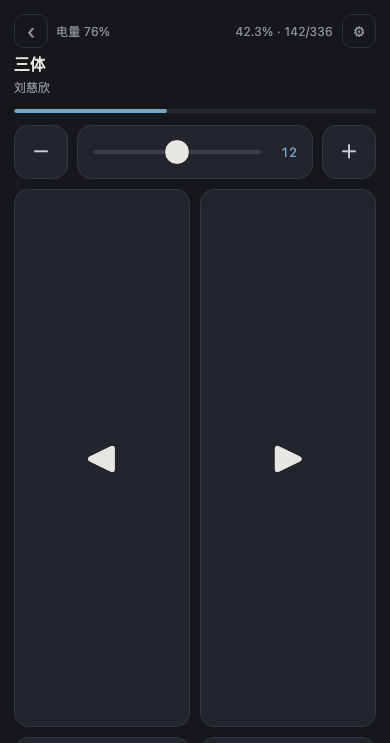
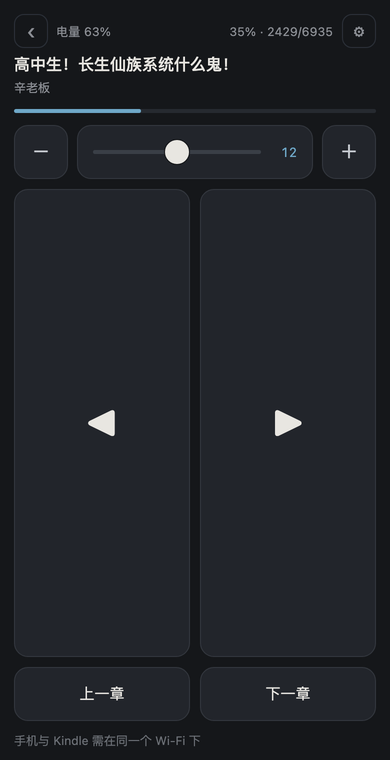
fix: 适配真机（书库路径、封面质量、重启、界面切换断线）
在真机上跑通后修的一批问题：

- 书库扫不到书：DataDir 是 /mnt/us/koreader，兜底路径拼出的
  /mnt/us/koreader/documents 并不存在，而书在 /mnt/us/documents。
  getHomeDir 改成按候选列表逐个探测（home_dir 设置 → DataDir/documents
  → 上级目录/documents → /mnt/us/documents）
- 封面糊成一片：CoverBrowser 缓存里不少封面只有 47x62（取决于它的显示
  模式）。现在缓存封面宽 < 150px 且原始尺寸够大时，现场开文档抽原图
  （实测 250~376 宽），落盘缓存；缓存文件名加 v2- 前缀，旧的低质量
  缓存第一次进目录时清掉
- 书架混进系统文件：过滤 My Clippings / JAILBROKEN / spidercat / index
  这类名字、小于 8KB 的文件，以及 kpomo、extensions 目录
- 书名带 Kindle 下载的 32 位哈希后缀，显示前剥掉（_<16 位以上十六进制>）
- 重启菜单项原来用"退出 + kpm launch --asap"外部拉起，在真机上拉不起来
  （reader.lua 一退，koreader.sh 就结束、框架恢复，再拉等于跑在框架下）。
  改回 restartKOReader()：本机 koreader.sh 有 while eq 85 的循环，
  真机验证过能原地重启
- 从书里退回书架时，FileManager 会销毁重建、两份界面短暂都不在，
  原来的 onCloseWidget 会立刻停服务，导致手机端断两三秒。
  改成延后 4 秒再停，期间有新界面登记就取消；前端也不再单次失败就报断线，
  连续 3 次才提示
- 书架书名改成固定两行高，一行/两行混排时进度行不再错位
- docs 截图换成真机 390x760 渲染的图

diff --git a/panel.html b/panel.html
@@ -74,7 +74,9 @@ button:active{background:#2f343b;transform:scale(.975)}
   display:block;z-index:1}
 .bk .nm{flex:0 0 auto;font-size:11px;line-height:1.3;margin-top:5px;color:#d7d5d0;
   display:-webkit-box;-webkit-line-clamp:2;-webkit-box-orient:vertical;overflow:hidden;
-  min-height:2.6em}
+  /* 固定两行高（不是 min-height）：一行和两行的书名必须占同样高度，
+     否则下面的进度行会差几像素、整排看着不齐 */
+  height:2.6em}
 .bk .pg{flex:0 0 auto;font-size:10px;color:#6fa8c8;margin-top:2px;
   font-variant-numeric:tabular-nums}
 
@@ -606,6 +608,7 @@ input[type=range]::-moz-range-thumb{width:26px;height:26px;border-radius:50%;
   function tick(){
     if (S.view !== 'reader') return;
     api('/api/status').then(function(s){
+      S.fails = 0;
       if (!s) return;
       S.kindleView = s.view;
       // 正在开书：Kindle 还没切过去，这时 status 仍是 shelf，
@@ -619,7 +622,13 @@ input[type=range]::-moz-range-thumb{width:26px;height:26px;border-radius:50%;
         return;
       }
       paint(s);
-    }).catch(offline);
+    }).catch(function(){
+      // 单次失败不算断线：退回书架 / 开书时 Kindle 要重建整个书架界面，
+      // HTTP 服务可能跟着重启一两秒（实测 1~3 秒），这时请求会打空。
+      // 连续失败 3 次（约 6 秒）才认定真的连不上。
+      S.fails = (S.fails || 0) + 1;
+      if (S.fails >= 3) offline();
+    });
   }
 
   function pollShelfState(){

diff --git a/README.md b/README.md
@@ -142,7 +142,10 @@ iptables -I INPUT 1 -i wlan0 -p tcp --dport 18080 -m conntrack --ctstate NEW -j 
 - **亮度**走 `Device:getPowerDevice():setIntensity(n)`，不直接写 `/sys/class/backlight`。直接写 sysfs 会让 KOReader 记录的档位和硬件实际值脱节，下次它恢复亮度时会把你的设置覆盖掉。
 - **常驻插件**：没有设 `is_doc_only = true`，所以书架和阅读界面各会加载一份实例。两份实例通过模块级的 `SERVER` 表共享同一个服务，避免重复 `bind` 端口。动作按"当前是否有打开的文档"派发。
 - **不干预自动休眠**：不设置 `PluginShare.pause_auto_suspend`。Kindle 按自己的 30 分钟超时休眠，省电。但手机发来的**动作**（翻页、调亮度等）会计为一次用户操作，重置 AutoSuspend 的计时——否则你正用手机连续翻页，手指没碰屏幕，设备会中途睡过去。**纯 `/api/status` 轮询不算**，所以放下手机 30 分钟照样休眠。
-- **重启**不调用 `UIManager:restartKOReader()`。那实质是 `quit(85)`，依赖启动脚本看到 85 后重新拉起，而 Kindle 的 `koreader.sh` 末尾是 `exit ${RETURN_VALUE}`，没有这个循环——所以官方那条路在 Kindle 上只会退出。插件改成退出后由后台 shell 用 `kpm launch` 重新拉起。
+- **重启**直接走 `UIManager:restartKOReader()`，也就是退出码 85。`koreader.sh` 里有 `while [ $RETURN_VALUE -eq 85 ]` 循环，
+  会原地重新拉起 `reader.lua`，同时框架保持停止、插件全部重新加载。
+  早先试过"退出再用 `kpm launch --asap` 从外部拉起"，在 Kindle 上不可靠：`reader.lua` 一退出 `koreader.sh` 就结束、
+  Amazon 框架随即恢复，这时再启动 KOReader 等于跑在框架底下，会被抢焦点甚至直接收掉。
 
 ## 测试
 
@@ -180,6 +183,9 @@ python3 tests/mock_shelf.py
 
 ## 已知限制
 
+- **Kindle 商店的 `.azw/.azw3` 取不到封面**。DRM 保护的文件解不出封面页，书架里这些书显示书名首字占位，其余照常可用。
+- **封面质量**：优先用 CoverBrowser 已经缩好的缓存；缓存里的图太小时（实测有些只有 47×62，手机上会糊）会现场开文档抽一次原图，
+  再缩到 260px 宽存成 JPEG。所以第一次翻到某本书时可能要等一两秒，之后走磁盘缓存，几十毫秒。
 - **无鉴权**。同一 Wi-Fi 下任何人知道 IP 就能翻你的书。自己家里用没问题，公共网络下建议改成手动启动而不是自动启动。要加 token 鉴权的话，改动很小。
 - **休眠后连不上**。Kindle 休眠会断 Wi-Fi，碰一下设备唤醒即可，服务会跟着进程一起回来（`onResume` 会补防火墙规则）。这条路径在真实休眠/唤醒循环下的表现还没做过严格验证。
 - **只覆盖 KOReader**。原生阅读器界面不归它管。
